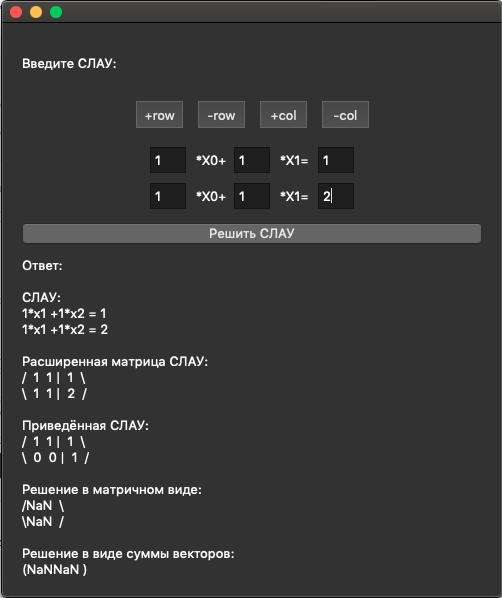
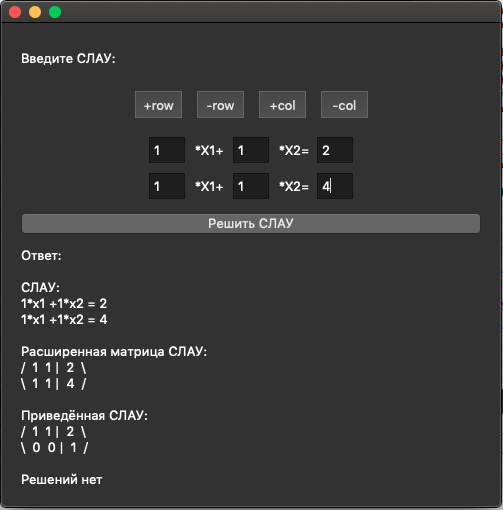
add NO SOLUTIONS msg

Changed region(s): [[0.0, 0.0, 1.0, 1.0], [0.2689, 0.1765, 0.3586, 0.2353]]

diff --git a/widget.cpp b/widget.cpp
@@ -17,7 +17,7 @@ Widget::Widget(QWidget *parent): QWidget(parent)
     main_layout->setAlignment(Qt::AlignCenter);
         enter_slau_msg_lbl = new QLabel(this);
         enter_slau_msg_lbl->setText(tr("Введите СЛАУ:"));
-        enter_slau_msg_lbl->setFixedHeight(40);
+        enter_slau_msg_lbl->setFixedHeight(30);
         main_layout->addWidget(enter_slau_msg_lbl, 0);
 
         pref_layout = new QHBoxLayout();
@@ -163,7 +163,15 @@ void Widget::solve()
 
     if(solution.size() == 0)
     {
-        out<<"Решений нет";
+        out<<"СЛАУ:\n"
+           <<as_slau(slau)<<"\n"
+
+           <<"Расширенная матрица СЛАУ:\n"
+           <<as_extended_matrix(slau)<<"\n"
+
+           <<"Приведённая СЛАУ:\n"
+           <<as_extended_matrix(triangulate(slau))<<"\n"
+           <<"Решений нет";
     }
     else
     {

diff --git a/solver/slau.cpp b/solver/slau.cpp
@@ -318,11 +318,32 @@ const Vector<Vector<Fract>> get_solution(const Vector<Vector<int>> &sslau)
 {
     Vector<Vector<int>> slau = triangulate(sslau);
 
+    bool is_no_solution = false;
+
+    for(unsigned row = 0; row<slau.size(); ++row)
+    {
+        unsigned ssum = 0;
+        for(unsigned i=0; i<slau[row].size()-1; ++i)
+            ssum += slau[row][i] * slau[row][i];
+
+        if((ssum == 0) && (slau[row][slau[row].size()-1] != 0))
+        {
+            is_no_solution = true;
+            break;
+        }
+    }
+
+    if(is_no_solution)
+    {
+        return Vector<Vector<Fract>>();
+    }
+
     size_t rank = triangle_matrix_rank(slau);
 
     size_t vars_count = slau[0].size()-1;
     size_t fixed_vars_count = vars_count - rank;
     size_t vec_dim = fixed_vars_count + 1;
+
     Vector<Vector<Fract>> vars(vars_count);
 
     for(size_t i=0; i<vars_count; ++i)

diff --git a/solver/vector.hpp b/solver/vector.hpp
@@ -38,7 +38,7 @@ public:
 
 	void realloc(const size_t &new_capacity_);
 
-	const size_t size();
+    const size_t size();
 	const size_t size() const;
 
 	T &operator[](const size_t&);
